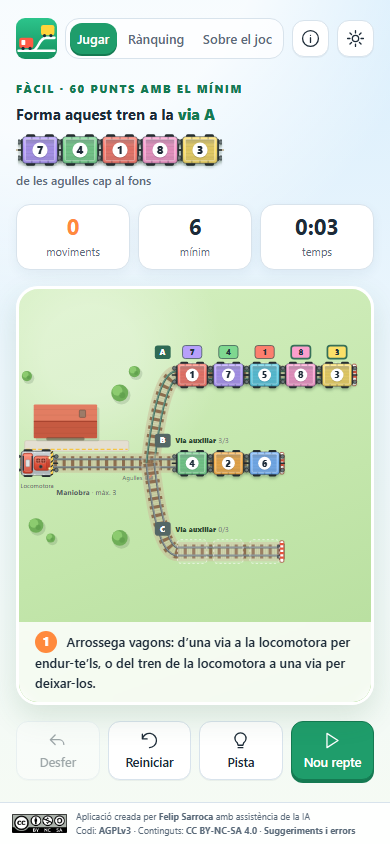
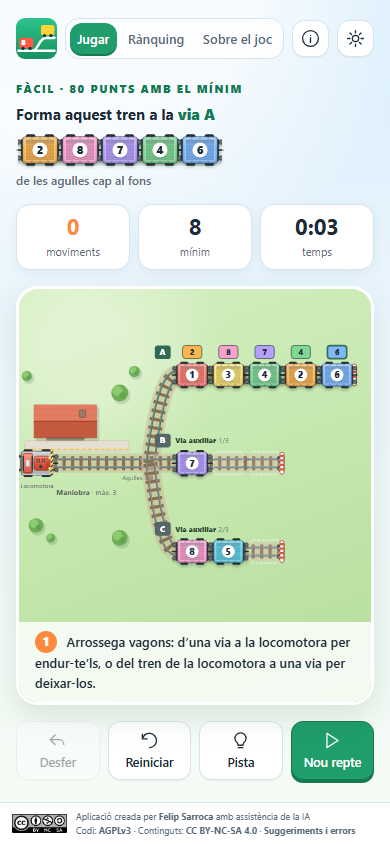
Maniobres 2.8.4: la locomotora deixa els vagons a una via auxiliar abans de sortir

diff --git a/Maniobres/src/app.js b/Maniobres/src/app.js
@@ -434,6 +434,16 @@ function locations(state) {
 }
 // Quan el tren és format, la locomotora s'enganxa a la via A i se l'emporta.
 let departToken = 0;
+// Si la locomotora encara porta vagons, primer els deixa en una via auxiliar amb lloc.
+function departDrop(L) {
+  const s = game.state,
+    n0 = s[0].length;
+  if (!n0) return null;
+  const v = [2, 3]
+    .filter((i) => s[i].length + n0 <= L.caps[i - 1])
+    .sort((a, b) => L.caps[b - 1] - s[b].length - (L.caps[a - 1] - s[a].length))[0];
+  return v ? { v, n0, k: s[v].length } : { v: 0, n0 };
+}
 function depart(wait = 0) {
   if (prefs.reduced || autoplay) return sound("whistle");
   const token = ++departToken;
@@ -446,8 +456,8 @@ function depart(wait = 0) {
       cars = [...svg.querySelectorAll('[data-src="1"]')];
     if (!loco || !cars.length) return;
     loco.querySelector("text")?.remove();
-    const put = (el, s, half) => {
-        const [x, y, a] = along(r, s);
+    const put = (el, s, half, rr = r) => {
+        const [x, y, a] = along(rr, s);
         el.setAttribute("transform", `translate(${x.toFixed(1)} ${y.toFixed(1)}) rotate(${a.toFixed(1)}) translate(${-half} 0)`);
       },
       sc = cars.map((_, j) => parked(L, 1, j)),
@@ -458,26 +468,67 @@ function depart(wait = 0) {
       left = wrap && m ? (wrap.left - m.e) / m.a : 0,
       away = sc.at(-1) - left + 70,
       ease = (t) => (t < 0.5 ? 2 * t * t : 1 - (-2 * t + 2) ** 2 / 2),
-      t0 = performance.now(),
+      drop = departDrop(L),
+      held = [...svg.querySelectorAll('[data-src="0"]')].sort((a, b) => a.dataset.idx - b.dataset.idx),
+      // Fase prèvia: empènyer els vagons de la locomotora cap a la via auxiliar i tornar.
+      push = drop ? (drop.v ? 900 : 450) : 0,
+      back = drop?.v ? 700 : 0,
+      pre = push ? push + 150 + back + 150 : 0,
       approach = 750,
       pause = 180,
-      leave = 1500;
+      leave = 1500,
+      t0 = performance.now();
+    let moved = [];
+    if (drop?.v) {
+      const rv = route(L, drop.v),
+        gap = parked(L, 0, 0) - l0;
+      moved = [
+        ...held.map((el, j) => ({ el, a: parked(L, 0, j), b: parked(L, drop.v, j) })),
+        ...[...svg.querySelectorAll(`[data-src="${drop.v}"]`)].map((el) => ({ el, a: parked(L, drop.v, +el.dataset.idx), b: parked(L, drop.v, +el.dataset.idx + drop.n0) })),
+      ];
+      moved.rv = rv;
+      moved.lp = parked(L, drop.v, 0) - gap;
+    }
     let whistled = false;
     const frame = (now) => {
       if (token !== departToken || !loco.isConnected) return;
       const e = now - t0;
-      if (e < approach) put(loco, l0 + (l1 - l0) * ease(e / approach), 28);
-      else if (e < approach + pause) put(loco, l1, 28);
-      else {
-        if (!whistled) {
-          whistled = true;
-          sound("whistle");
+      if (e < pre) {
+        if (drop.v) {
+          const rv = moved.rv;
+          if (e < push) {
+            const t = ease(e / push);
+            put(loco, l0 + (moved.lp - l0) * t, 28, rv);
+            moved.forEach((x) => put(x.el, x.a + (x.b - x.a) * t, 26, rv));
+          } else if (e < push + 150) {
+            const tag = svg.querySelector(`[data-via="${drop.v}"] .track-label tspan`);
+            if (tag) tag.textContent = `${drop.k + drop.n0}/${L.caps[drop.v - 1]}`;
+            put(loco, moved.lp, 28, rv);
+            moved.forEach((x) => put(x.el, x.b, 26, rv));
+          } else {
+            const t = ease(Math.min(1, (e - push - 150) / back));
+            put(loco, moved.lp + (l0 - moved.lp) * t, 28, rv);
+          }
+        } else {
+          // Sense lloc a cap via auxiliar: els vagons s'esvaeixen.
+          const t = Math.min(1, e / push);
+          held.forEach((el) => el.setAttribute("opacity", (1 - t).toFixed(2)));
         }
-        const t = Math.min(1, (e - approach - pause) / leave),
-          d = away * t * t;
-        put(loco, l1 - d, 28);
-        cars.forEach((el, j) => put(el, sc[j] - d, 26));
-        if (t >= 1) return;
+      } else {
+        const f = e - pre;
+        if (f < approach) put(loco, l0 + (l1 - l0) * ease(f / approach), 28);
+        else if (f < approach + pause) put(loco, l1, 28);
+        else {
+          if (!whistled) {
+            whistled = true;
+            sound("whistle");
+          }
+          const t = Math.min(1, (f - approach - pause) / leave),
+            d = away * t * t;
+          put(loco, l1 - d, 28);
+          cars.forEach((el, j) => put(el, sc[j] - d, 26));
+          if (t >= 1) return;
+        }
       }
       requestAnimationFrame(frame);
     };
@@ -723,7 +774,7 @@ function finish() {
     () => {
       if (game === g && view === "play" && !dialog.open) showResult();
     },
-    prefs.reduced ? 1200 : 3300,
+    prefs.reduced ? 1200 : 3300 + (game.state[0].length ? 1900 : 0),
   );
 }
 function modal(html, locked = false) {
@@ -951,7 +1002,7 @@ function renderAbout() {
       ["swap", "#ff8a3d", "Anar i tornar", "compta 1 moviment"],
     ],
     skills = ["Planificar", "Pensar enrere", "Dividir el problema", "Provar i ajustar", "Pensament computacional"];
-  $("#main").innerHTML = `<div class="page about-page"><header class="about-top"><img src="assets/favicon.svg" alt=""><div><div class="eyebrow">Sobre el joc</div><h1>Pocs vagons, poques vies, molt de cap</h1><p>Un trencaclosques de lògica: forma un tren amb el mínim de maniobres.</p></div></header><section class="panel about-rules"><h3>Les regles</h3><div class="rule-tiles">${rules.map(([ic, c, t, d]) => `<div><span style="--c:${c}">${icon(ic)}</span><b>${t}</b><small>${d}</small></div>`).join("")}</div></section><div class="about-trio"><section class="panel about-card"><h3>${icon("trophy")} Com puntua</h3><div class="score-pills"><span class="plus"><b>+10</b> per moviment del mínim</span><span class="minus"><b>−5</b> per moviment de més</span><span class="gold"><b>${icon("star")}</b> perfecte: el mínim exacte</span></div><small>Sense pistes · un cop per puzle · dura un any</small></section><section class="panel about-card"><h3>${icon("bulb")} Què s’hi aprèn</h3><div class="skill-chips">${skills.map((x) => `<span>${x}</span>`).join("")}</div></section><section class="panel about-card"><h3>${icon("route")} D’on ve</h3><p class="origin"><b>1979</b><span><strong>Inglenook Sidings</strong>, d’Alan Wright: un clàssic del modelisme ferroviari britànic basat en una feina real d’estació.</span></p></section></div><section class="panel about-facts"><div class="facts"><div><strong>8</strong><small>vagons a l’estació</small></div><div><strong>5</strong><small>formen el tren</small></div><div><strong>356.160</strong><small>situacions diferents</small></div><div><strong>17</strong><small>moviments, el repte més llarg</small></div></div></section><p class="credits">Versió 2.8.3 · Creat per <a href="https://ja.cat/felipsarroca" target="_blank" rel="noopener noreferrer">Felip Sarroca</a> amb assistència de la IA · Codi AGPLv3 i continguts CC BY-NC-SA 4.0 · <a href="https://github.com/felipsarroca/jocs/tree/main/Maniobres" target="_blank" rel="noopener noreferrer">Codi font</a> · <a href="https://github.com/felipsarroca/jocs/issues/new?template=maniobres.yml" target="_blank" rel="noopener noreferrer">Suggeriments i errors</a> · El rànquing només desa el nom de jugador i les solucions.</p></div>`;
+  $("#main").innerHTML = `<div class="page about-page"><header class="about-top"><img src="assets/favicon.svg" alt=""><div><div class="eyebrow">Sobre el joc</div><h1>Pocs vagons, poques vies, molt de cap</h1><p>Un trencaclosques de lògica: forma un tren amb el mínim de maniobres.</p></div></header><section class="panel about-rules"><h3>Les regles</h3><div class="rule-tiles">${rules.map(([ic, c, t, d]) => `<div><span style="--c:${c}">${icon(ic)}</span><b>${t}</b><small>${d}</small></div>`).join("")}</div></section><div class="about-trio"><section class="panel about-card"><h3>${icon("trophy")} Com puntua</h3><div class="score-pills"><span class="plus"><b>+10</b> per moviment del mínim</span><span class="minus"><b>−5</b> per moviment de més</span><span class="gold"><b>${icon("star")}</b> perfecte: el mínim exacte</span></div><small>Sense pistes · un cop per puzle · dura un any</small></section><section class="panel about-card"><h3>${icon("bulb")} Què s’hi aprèn</h3><div class="skill-chips">${skills.map((x) => `<span>${x}</span>`).join("")}</div></section><section class="panel about-card"><h3>${icon("route")} D’on ve</h3><p class="origin"><b>1979</b><span><strong>Inglenook Sidings</strong>, d’Alan Wright: un clàssic del modelisme ferroviari britànic basat en una feina real d’estació.</span></p></section></div><section class="panel about-facts"><div class="facts"><div><strong>8</strong><small>vagons a l’estació</small></div><div><strong>5</strong><small>formen el tren</small></div><div><strong>356.160</strong><small>situacions diferents</small></div><div><strong>17</strong><small>moviments, el repte més llarg</small></div></div></section><p class="credits">Versió 2.8.4 · Creat per <a href="https://ja.cat/felipsarroca" target="_blank" rel="noopener noreferrer">Felip Sarroca</a> amb assistència de la IA · Codi AGPLv3 i continguts CC BY-NC-SA 4.0 · <a href="https://github.com/felipsarroca/jocs/tree/main/Maniobres" target="_blank" rel="noopener noreferrer">Codi font</a> · <a href="https://github.com/felipsarroca/jocs/issues/new?template=maniobres.yml" target="_blank" rel="noopener noreferrer">Suggeriments i errors</a> · El rànquing només desa el nom de jugador i les solucions.</p></div>`;
 }
 // Escenes del «Com s'hi juga»: una estació petita (via de maniobra, via A amb corba i via B recta).
 function scene(step) {

diff --git a/Maniobres/sw.js b/Maniobres/sw.js
@@ -1,5 +1,5 @@
 // SPDX-License-Identifier: AGPL-3.0-or-later
-const CACHE = "maniobres-v2.8.3-1";
+const CACHE = "maniobres-v2.8.4-1";
 const FILES = [
   "./",
   "./index.html",

diff --git a/Maniobres/CHANGELOG.md b/Maniobres/CHANGELOG.md
@@ -1,5 +1,9 @@
 # Registre de canvis
 
+## 2.8.4 · 21 de novembre de 2026
+
+- Sortida del tren: si la locomotora encara porta vagons, primer els deixa a la via auxiliar (B o C) que tingui lloc, torna enrere i després s’emporta el tren de la via A, sense passar per damunt de cap vagó.
+
 ## 2.8.3 · 21 de novembre de 2026
 
 - Interruptors de Preferències refets: la bola queda centrada (l’estil general dels camps hi afegia vora i farciment) i llisca amb suavitat.
